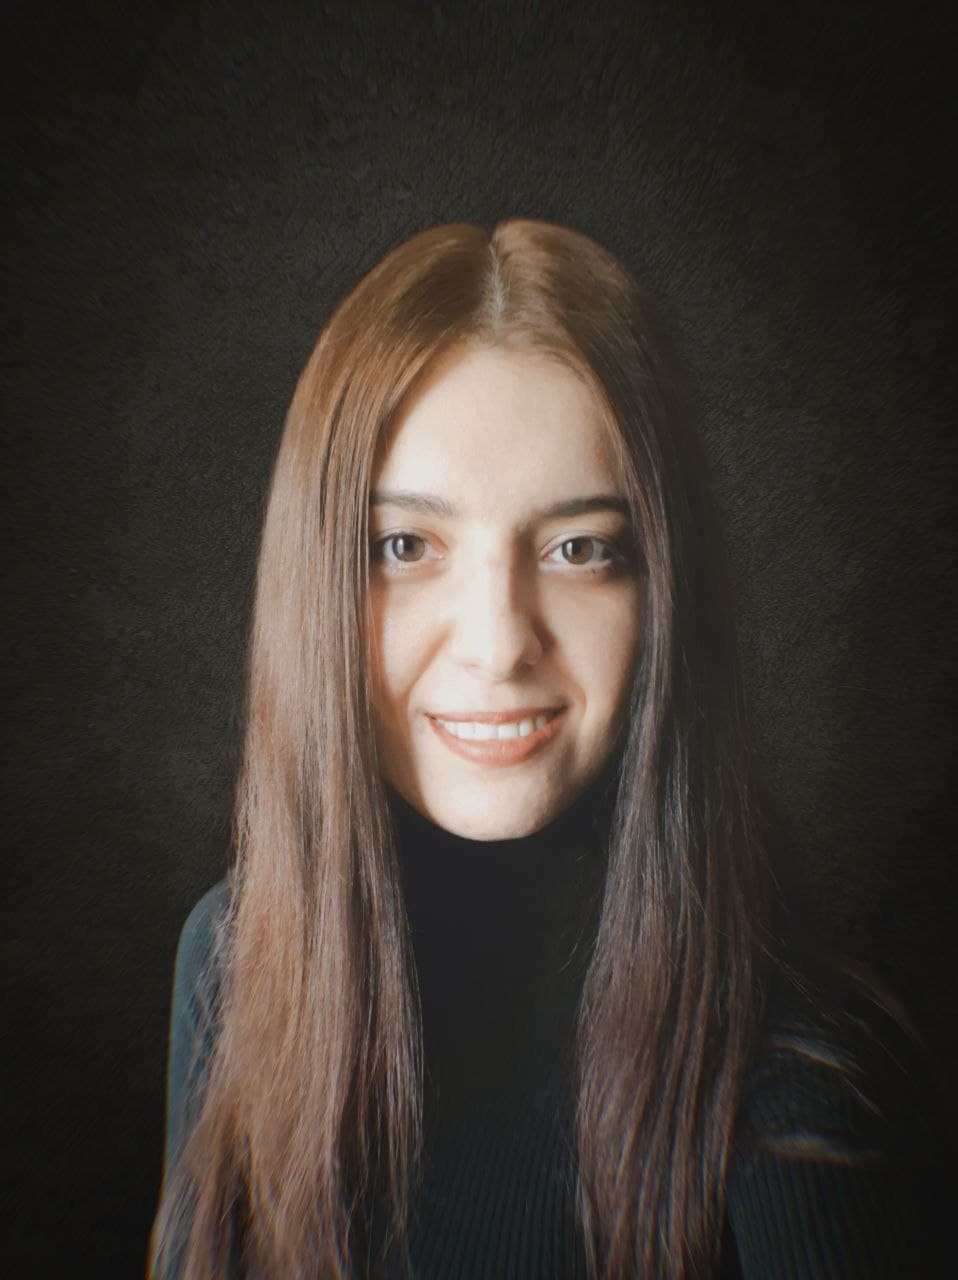
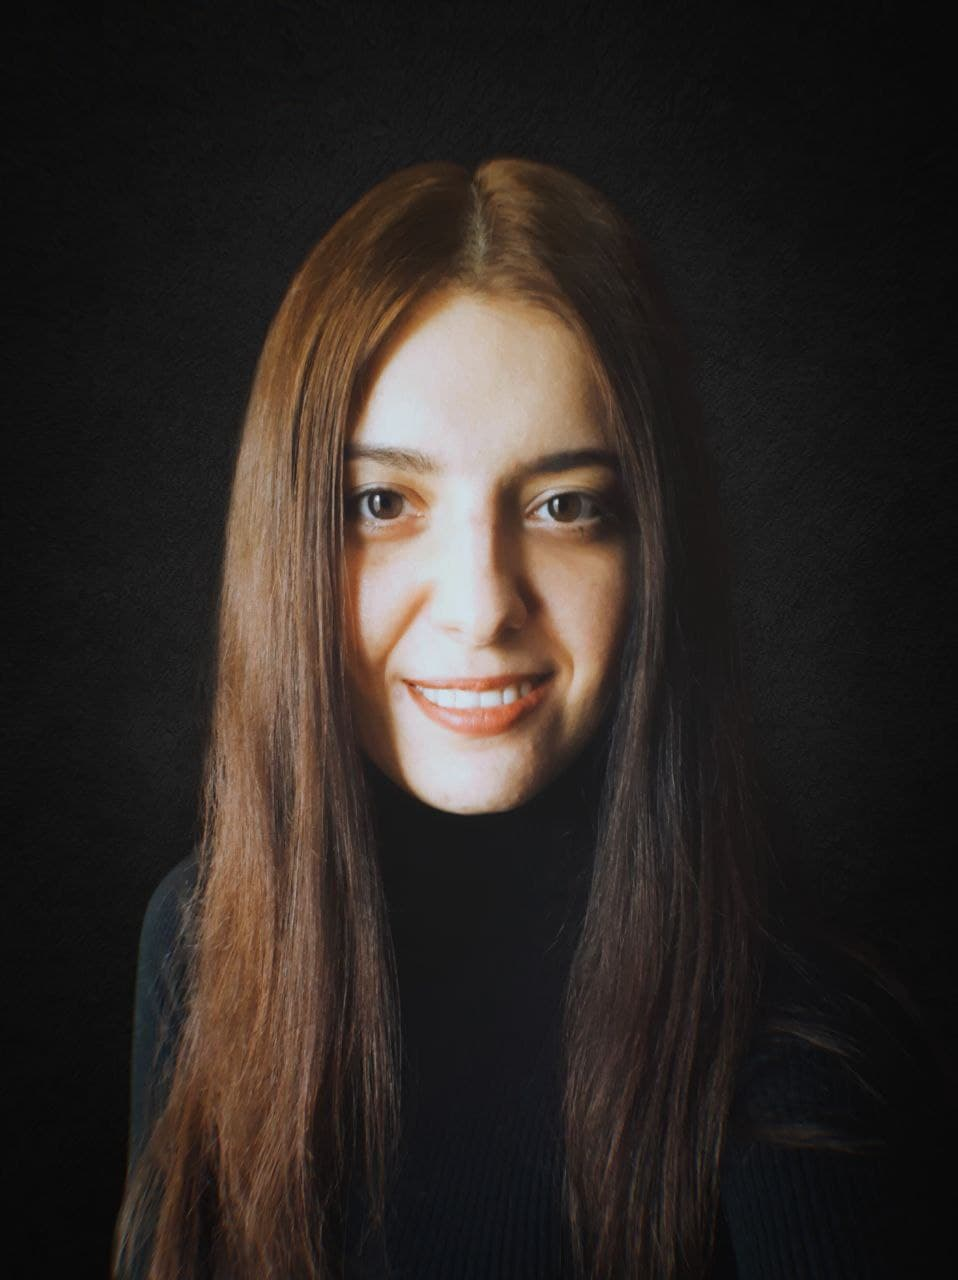
Reduce img size

diff --git a/src/components/main/Main.module.scss b/src/components/main/Main.module.scss
@@ -38,6 +38,7 @@
       }
     }
 
+    // Typewriter
     .typewriter {
       font-size: 2rem;
       font-weight: 400;
@@ -87,14 +88,15 @@
       }
     }
 
+    // Image
     .imgHover {
       width: auto;
-      height: 55vh;
+      height: 49vh;
       overflow: hidden;
     }
     .img {
       width: auto;
-      height: 55vh;
+      height: 49vh;
       position: relative;
       z-index: 2;
       transition: 0.9s;
@@ -145,11 +147,11 @@
         bottom: -15px;
         right: -15px;
         @include media-query("max", $palm-start) {
-          bottom: 80px;
+          bottom: 30px;
           right: -15px;
         }
         @include media-query("lap") {
-          bottom: 50px;
+          bottom: 0;
           right: -15px;
         }
       }
@@ -157,13 +159,19 @@
         &::before {
           top: 20px;
           left: 20px;
+          @include media-query("lap") {
+            top: 40px;
+          }
         }
         &::after {
           bottom: 20px;
           right: 20px;
           @include media-query("max", $palm-start) {
-            bottom: 110px;
+            bottom: 60px;
             right: 10px;
+          }
+          @include media-query("lap") {
+            bottom: 50px;
           }
         }
       }

diff --git a/src/components/contacts/Form.tsx b/src/components/contacts/Form.tsx
@@ -4,6 +4,7 @@ import * as Yup from "yup";
 import styles from "./Form.module.scss";
 import { Input } from "../../UI/Input/Input";
 import { Textarea } from "../../UI/Textarea/Textarea";
+import axios from "axios";
 
 export const ContactForm = () => {
   return (
@@ -22,12 +23,15 @@ export const ContactForm = () => {
           email: Yup.string()
             .email("Must be a valid email!")
             .required("Required!"),
-          message: Yup.string().min(50, "Must be at least 50 characters"),
+          message: Yup.string().min(30, "Must be at least 30 characters"),
         })}
         onSubmit={(values, { setSubmitting, resetForm }) => {
           resetForm();
           setSubmitting(false);
           console.log(values);
+          axios.post("http://localhost:3010/sendMessage", values).then(() => {
+            alert("Message was sent");
+          });
         }}
       >
         {(props) => {
